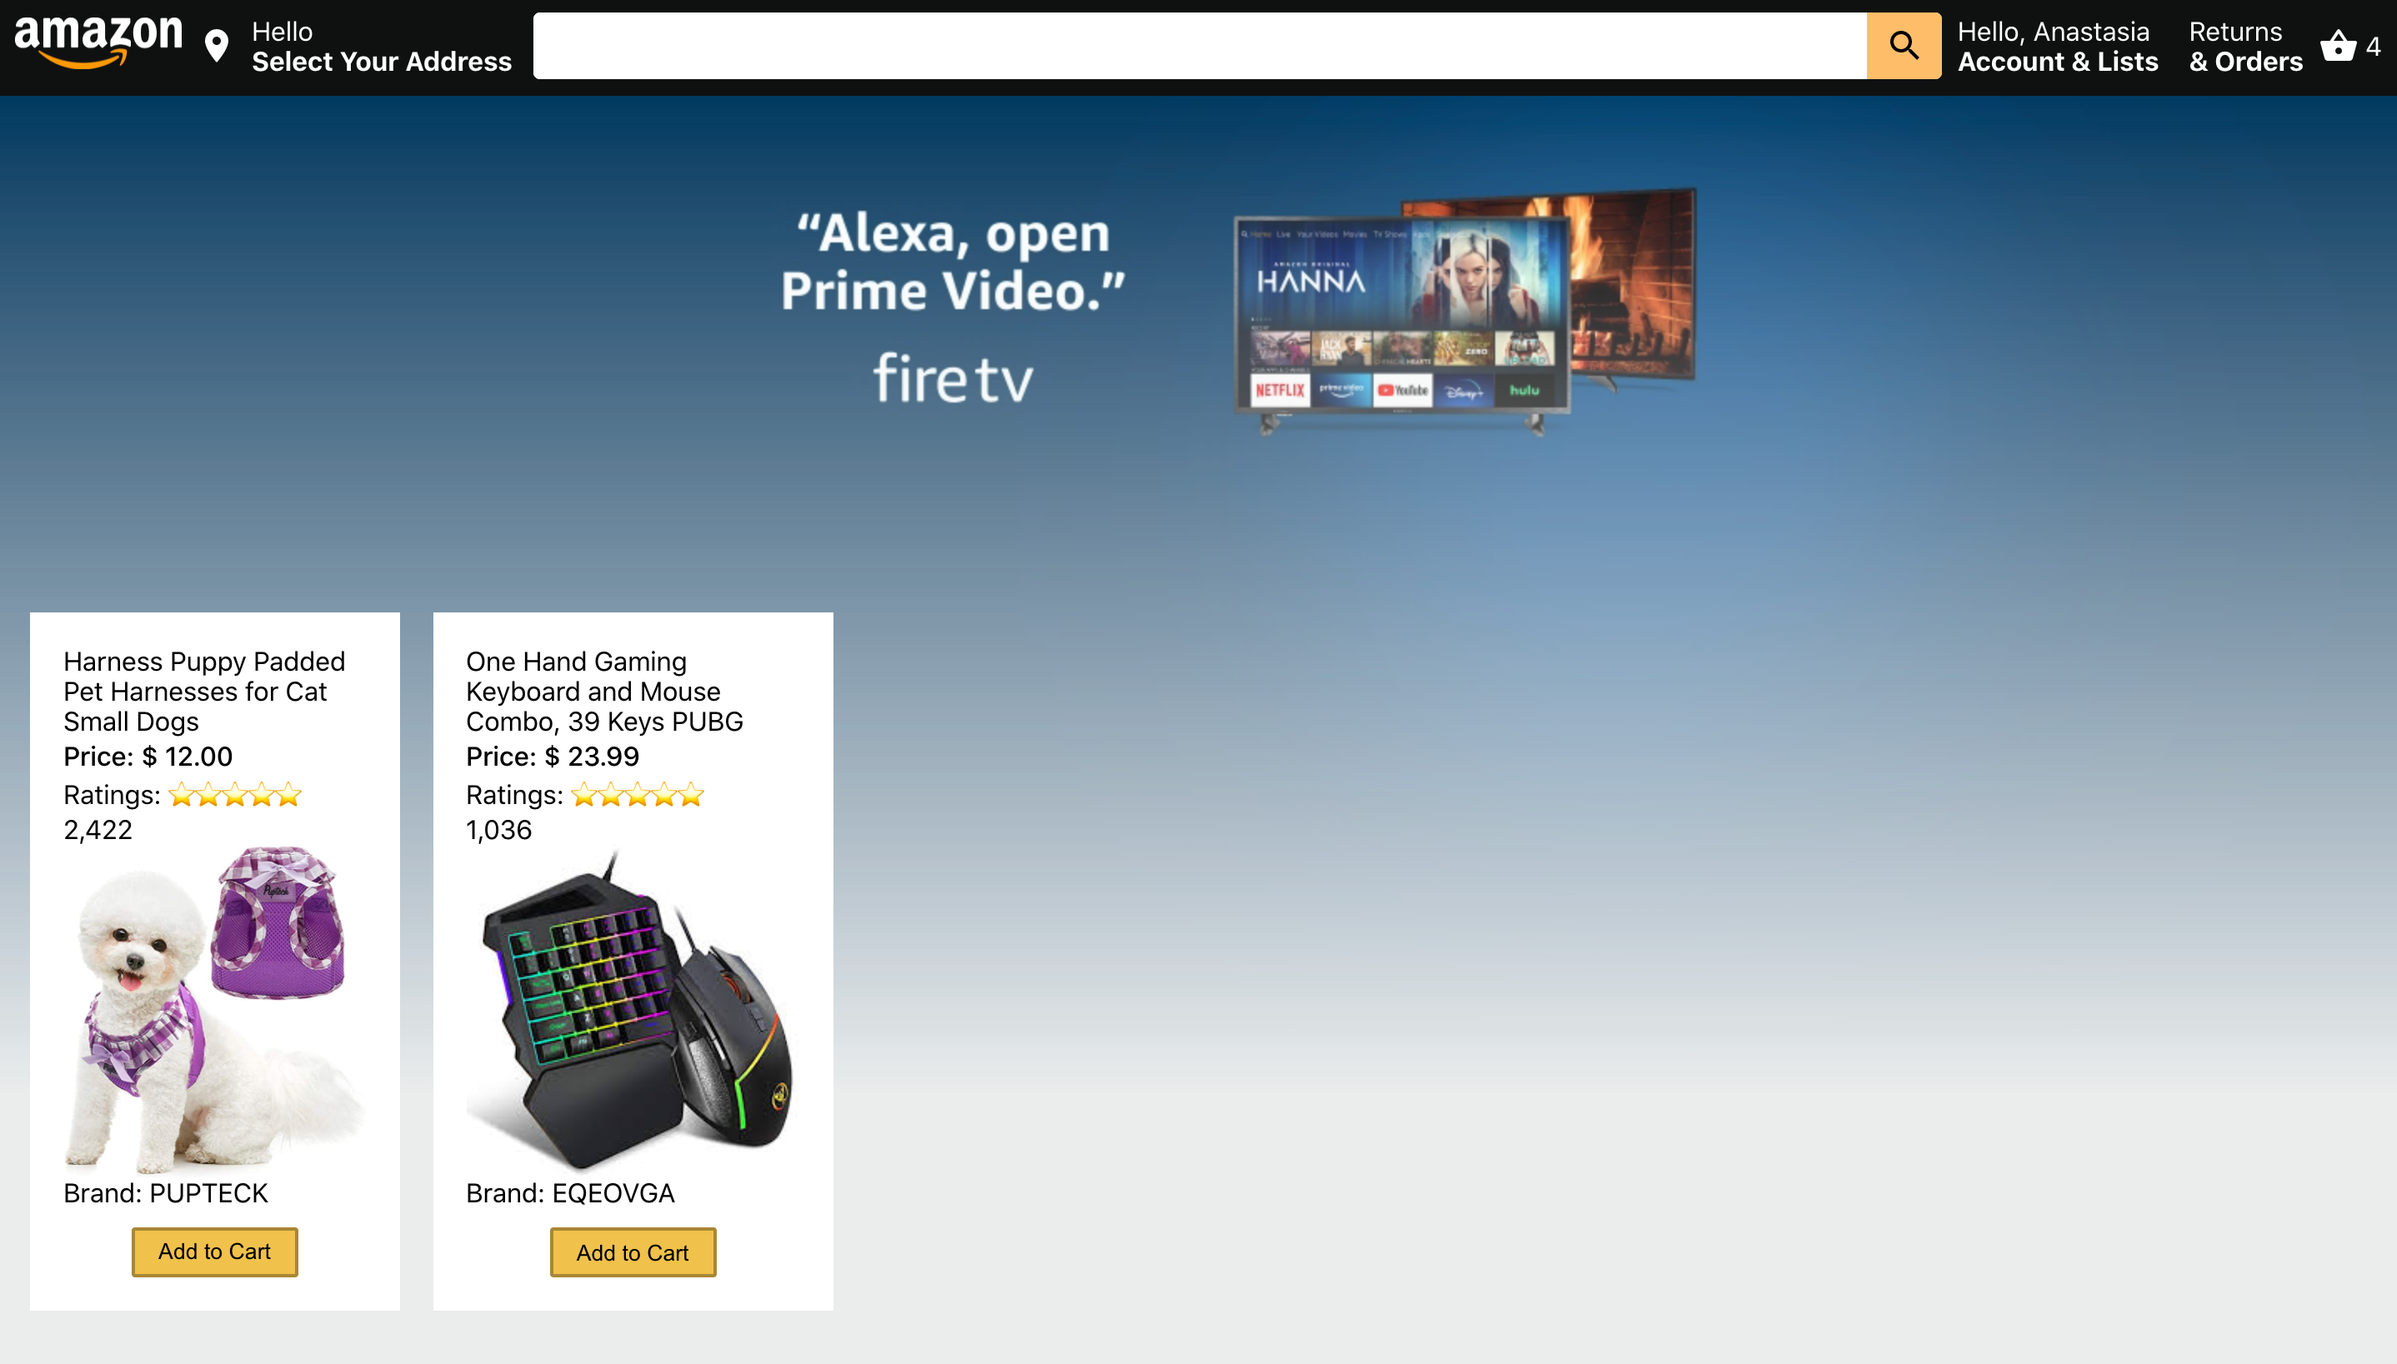
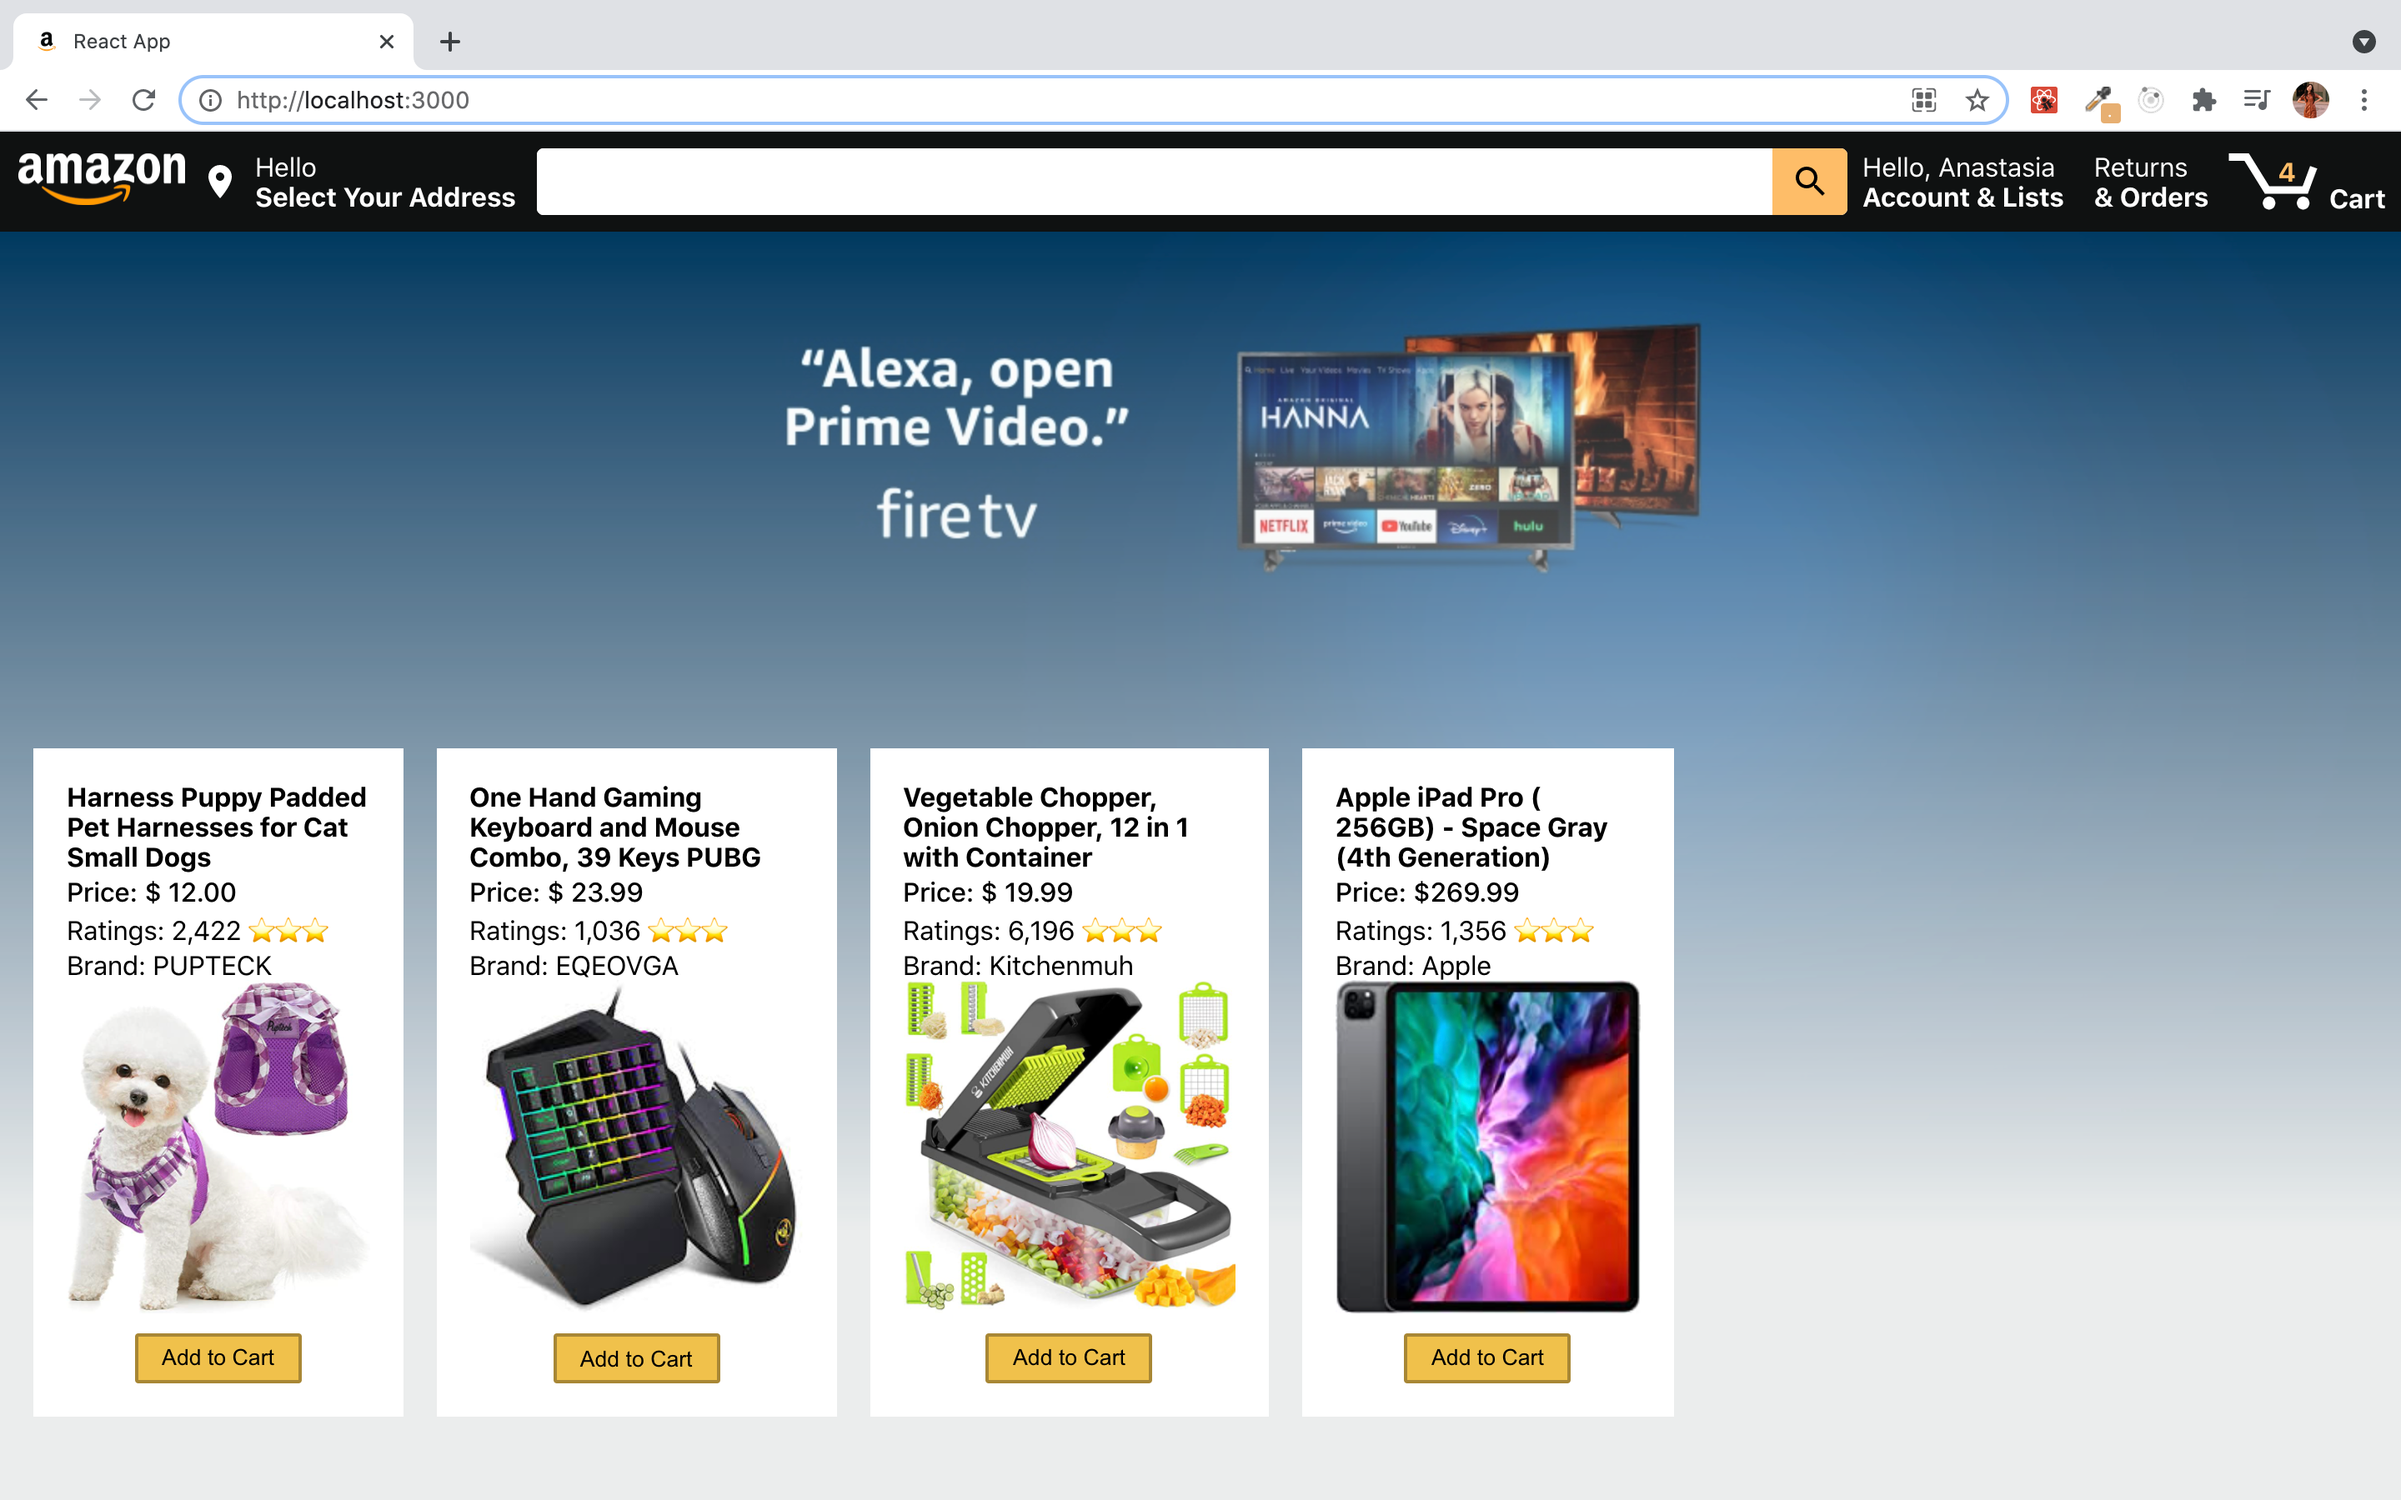
fixed some styles

diff --git a/my-app/src/Components/Product.jsx b/my-app/src/Components/Product.jsx
@@ -1,20 +1,22 @@
 import React from "react";
 import styled from "styled-components";
-import CheckIcon from "@material-ui/icons/Check";
 
 const Product = ({ product }) => {
   return (
     <Container>
-      <Title>{product.title}</Title>
+      <Title>
+        <strong> {product.title} </strong>
+      </Title>
       <PriceContainer>
         <Price>Price: {product.salePrice}</Price>
       </PriceContainer>
       <image src={product.image} />
       <RatingContainer>
-        <Rating> Ratings: ⭐⭐⭐⭐⭐ {product.ratings}</Rating>
+        <Rating>Ratings: {product.ratings} ⭐⭐⭐</Rating>
       </RatingContainer>
-      <Image src={product.image} />
       <ProductDetailsContainer>Brand: {product.brand} </ProductDetailsContainer>
+      <Image src={product.image} />
+
       <ActionSection>
         <AddToCartButton>Add to Cart</AddToCartButton>
       </ActionSection>

diff --git a/my-app/src/Components/Data/Products/index.js b/my-app/src/Components/Data/Products/index.js
@@ -1,5 +1,7 @@
 import id1 from "../../../Assets/Images/id1.jpg";
 import id2 from "../../../Assets/Images/id2.png";
+import id3 from "../../../Assets/Images/id3.jpg";
+import id4 from "../../../Assets/Images/id4.jpg";
 
 export const Products = [
   {
@@ -22,5 +24,25 @@ export const Products = [
     isPrime: false,
     numberofButtons: "35",
     brand: "EQEOVGA",
+  },
+  {
+    title: "Vegetable Chopper, Onion Chopper, 12 in 1 with Container",
+    image: id3,
+    rating: "5",
+    ratings: "6,196",
+    price: "$19.99",
+    salePrice: "$ 19.99",
+    isPrime: false,
+    brand: "Kitchenmuh",
+  },
+  {
+    title: "Apple iPad Pro ( 256GB) - Space Gray (4th Generation)",
+    image: id4,
+    rating: "5",
+    ratings: "1,356",
+    price: "$25.00",
+    salePrice: "$269.99",
+    isPrime: false,
+    brand: "Apple",
   },
 ];
